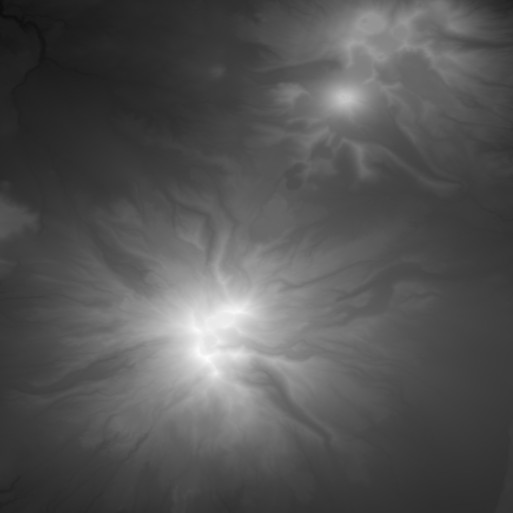
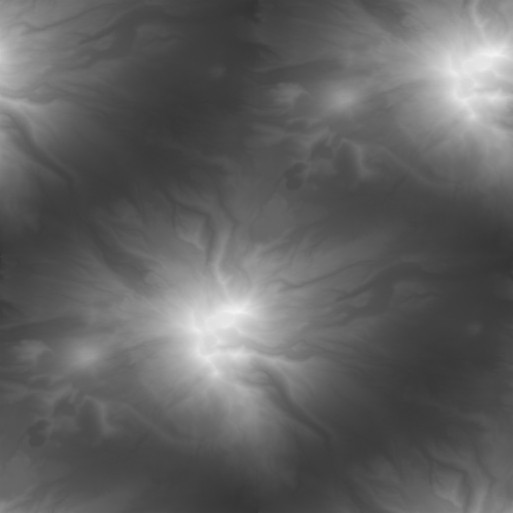
make heightmap terrain tileable, update example

diff --git a/support/client/lib/vwf/model/threejs/heightmapTerrainAlgorithm.js b/support/client/lib/vwf/model/threejs/heightmapTerrainAlgorithm.js
@@ -660,11 +660,12 @@ function heightmapTerrainAlgorithm()
 	}
 	
 	//This is the displacement function, which is called in paralell by the thread pool
-	this.displace= function(vert,matrix,res)
+	this.displace= function(vert,matrix,res,scale)
 	{
+		if(!scale) scale = 1;
 		var z = 0;
 
-		if(this.addNoise)
+		if(this.addNoise && scale < 4)
 		{
 			z = this.SimplexNoise.noise2D((vert.x)/100,(vert.y)/100) * 4.5;
 			z += this.SimplexNoise.noise2D((vert.x)/300,(vert.y)/300) * 4.5;
@@ -672,7 +673,7 @@ function heightmapTerrainAlgorithm()
 		}
 		//this is gamma correction
 		var h = this.type == 'img' && this.gamma?2.2:1.0;
-		if(this.cubic)
+		if(this.cubic && scale < 4)
 			return this.sampleBiCubic((vert.x+ (this.worldLength/2)) / this.worldLength ,(vert.y + (this.worldWidth/2)) / this.worldWidth,matrix,res  ) * h * this.heightScale  + z|| 0;
 		else
 			return this.sampleBiLinear((vert.x+ (this.worldLength/2)) / this.worldLength ,(vert.y + (this.worldWidth/2)) / this.worldWidth,matrix,res  ) * h * this.heightScale + z|| 0;
@@ -682,8 +683,10 @@ function heightmapTerrainAlgorithm()
 		x = Math.floor(x);
 		y = Math.floor(y);
 		if(!this.data) return 0;
-		if( x >= this.dataHeight || x < 0) return 0;
-		if( y >= this.dataWidth || y < 0) return 0;
+		if( x >= this.dataHeight) x = x % this.dataHeight;
+		if( x <  0) x = this.dataHeight-(-x%this.dataHeight);
+		if( y >= this.dataWidth ) y = y % this.dataWidth;
+		if( y <  0) y = this.dataWidth-(-y%this.dataWidth);
 		var i = y * this.dataWidth  + x;
 		return this.data[i]  - this.min;
 	}

diff --git a/support/client/lib/vwf/model/threejs/terrainGeneratorThread.js b/support/client/lib/vwf/model/threejs/terrainGeneratorThread.js
@@ -74,7 +74,7 @@ this.generateTerrainSimWorker = function(datain, buffers) {
     this.everyOtherNormal.length = 0;
     var matrix = new THREE.Matrix4();
     matrix.elements = datain.matrix;
-
+    var scale = (matrix.elements[0]);
     for (var i = 0; i < datain.vertices.length; i += 3) {
         var ver = new THREE.Vector3();
         ver.x = datain.vertices[i];
@@ -149,9 +149,10 @@ this.generateTerrainSimWorker = function(datain, buffers) {
                     vert3.y += vertoffset2;
                 }
 
-                var z1 = this.terrainAlgorithm.displace(vert, matrix, res);
-                var z2 = this.terrainAlgorithm.displace(vert2, matrix, res);
-                var z3 = this.terrainAlgorithm.displace(vert3, matrix, res);
+                //dont bother with using the more accurate displace if not the man vert
+                var z1 = this.terrainAlgorithm.displace(vert, matrix, res, k == 0 ? scale : 10);
+                var z2 = this.terrainAlgorithm.displace(vert2, matrix, res, k == 0 ? scale : 10);
+                var z3 = this.terrainAlgorithm.displace(vert3, matrix, res, k == 0 ? scale : 10);
 
                 var n;
                 if (k < 6)
